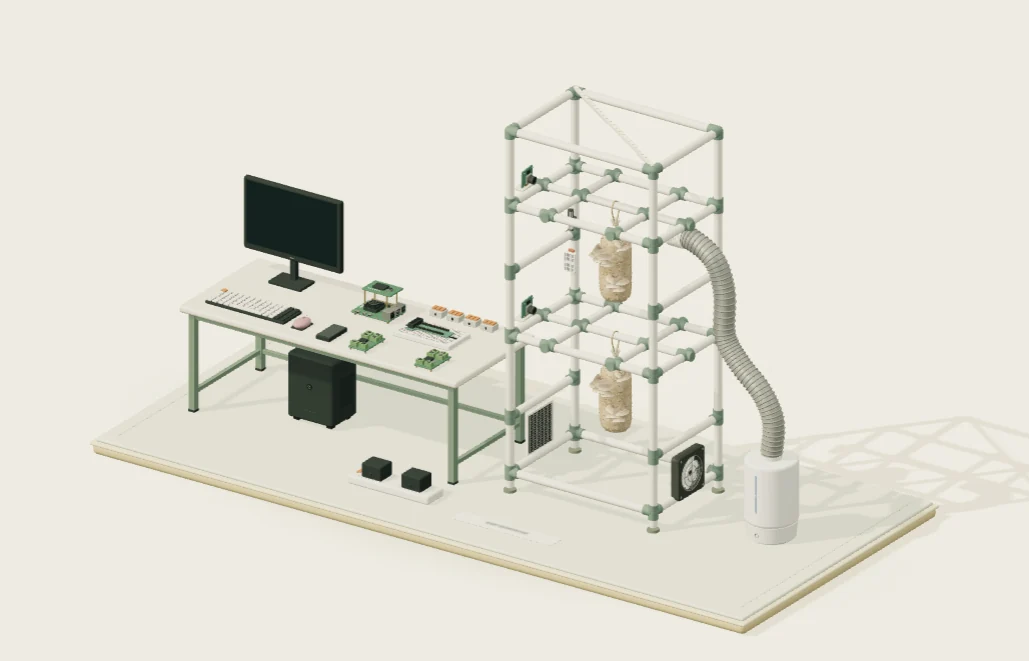
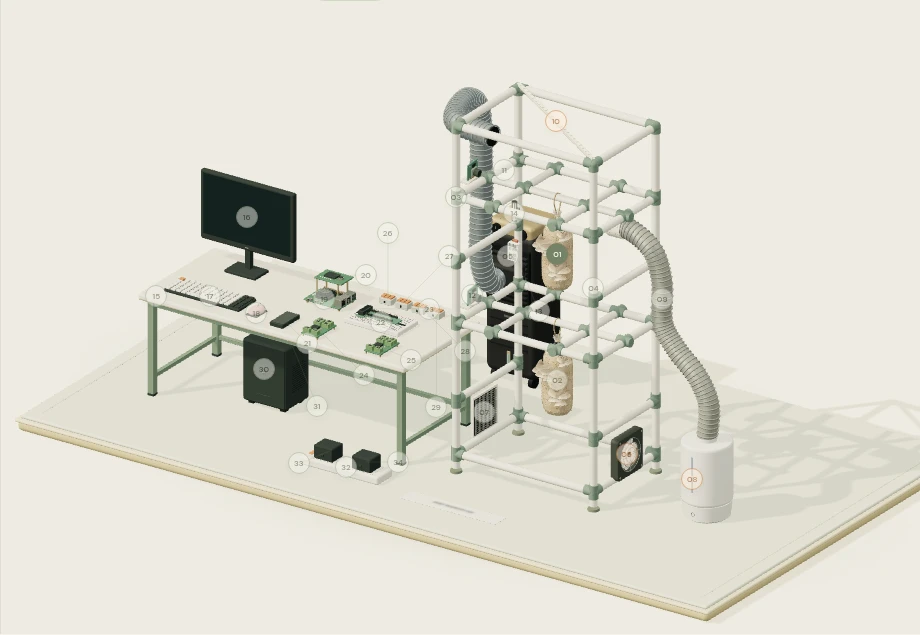
Stabilize habitat loading layout and refresh scene previews

Changed region(s): [[0.1522, 0.1197, 0.913, 0.8378], [0.0, 0.6583, 1.0, 0.9874]]

diff --git a/tests/study-loading.spec.ts b/tests/study-loading.spec.ts
@@ -1,0 +1,23 @@
+import {test,expect} from '@playwright/test';
+test.setTimeout(180_000);
+test.use({reducedMotion:'reduce',launchOptions:{executablePath:'/usr/bin/chromium',args:['--no-sandbox','--enable-unsafe-swiftshader']}});
+test('loading preview reserves the final layout and never flashes the inspector',async({page})=>{
+  let release!:()=>void;
+  const gate=new Promise<void>(resolve=>{release=resolve;});
+  await page.route(/(?:\/scene\.[^/]+\.js|\/scripts\/study\/scene\.ts)(?:\?.*)?$/,async route=>{await gate;await route.continue();});
+  await page.goto('/#material-study',{waitUntil:'domcontentloaded'});
+  const section=page.locator('#material-study'),shell=section.locator('.ms-scene-shell');
+  await page.evaluate(()=>document.fonts.ready);
+  await expect(section.locator('[data-study-detail]')).toBeHidden();
+  await expect(section.locator('[data-study-fallback]')).toBeVisible();
+  const before=(await shell.boundingBox())!;
+  release();
+  await expect(section).toHaveAttribute('data-study-state','ready',{timeout:90000});
+  await expect(section.locator('[data-study-fallback]')).toBeHidden();
+  await expect(section.locator('[data-study-detail]')).toBeHidden();
+  const after=(await shell.boundingBox())!;
+  expect(Math.abs(after.height-before.height)).toBeLessThanOrEqual(1);
+  expect(Math.abs(after.width-before.width)).toBeLessThanOrEqual(1);
+  await section.locator('[data-study-hotspot="cooler"]').click();
+  await expect(section.locator('[data-study-detail]')).toBeVisible();
+});

diff --git a/src/scripts/study/scene.ts b/src/scripts/study/scene.ts
@@ -527,7 +527,7 @@ export function mountMaterialStudy(section: HTMLElement) {
   reduceMotion.addEventListener('change', () => { controls.enableDamping = !reduceMotion.matches; if (reduceMotion.matches) { tween=null; finishAssembly(); stopRotation(); } wake(); },eventOptions);
   canvas.addEventListener('webglcontextlost', event => {
     event.preventDefault(); alive=false; stopRotation(); stopDemo(); finishAssembly(); cancelAnimationFrame(animationFrame);
-    fallback.hidden=false; section.dataset.studyState='unavailable'; canvas.hidden=true; detail.hidden=false;
+    fallback.hidden=false; section.dataset.studyState='unavailable'; canvas.hidden=true; detail.hidden=true;
     hotspots.forEach(({button}) => button.hidden=true); leaderLayer.style.display="none"; studyButtons.forEach(button => button.disabled=true);
     status.textContent='The browser paused 3D rendering. The still view is shown; reload to try again.';
   },eventOptions);
